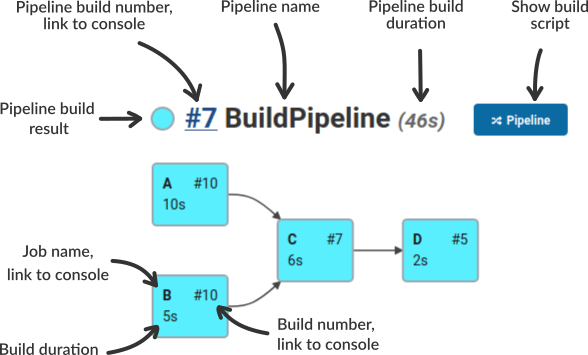
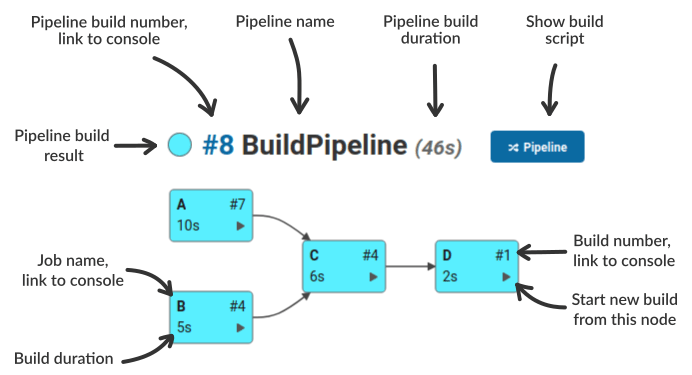
Updated documentation to match with the DepBuilder 1.1.0 update

diff --git a/src/main/webapp/js/displayBuildGraphs.js b/src/main/webapp/js/displayBuildGraphs.js
@@ -240,7 +240,7 @@ window.addEventListener('load', function () {
                 var buildStatus = node['buildStatus'];
                 var duration = node['buildDuration'];
                 var buildNumberStr = buildNumber == -1 ? "" : "" + buildNumber;
-                var htmlNode = "<div class=\"node-row\">\n                                <div class=\"projectNameContainer\"><a target=\"_blank\" class=\"hoverLink projectName\" title=" + projectName + " href=\"" + projectUri + "\">" + displayName + "</a></div>\n                                <span class=\"projectBuildSpacing\"></span>\n                                <a target=\"_blank\" class=\"link buildLink hoverLink\" href=\"" + buildUri + "\">#" + buildNumberStr + "</a>\n                            </div>\n                            <div class=\"node-row\">\n                                <p class=\"duration\">" + duration + "</p>\n                                <button data-project=\"" + projectName + "\" data-status=\"" + buildStatus + "\"\n                                    class=\"iconButton\">" + createIcon(buildStatus) + "\n                                </button>\n                            </div>\n                            ";
+                var htmlNode = "<div class=\"node-row\">\n                                <div class=\"projectNameContainer\"><a target=\"_blank\" class=\"hoverLink projectName\" title=" + projectName + " href=\"" + projectUri + "\">" + displayName + "</a></div>\n                                <span class=\"projectBuildSpacing\"></span>\n                                <a target=\"_blank\" class=\"link buildLink hoverLink\" href=\"" + buildUri + "\">#" + buildNumberStr + "</a>\n                            </div>\n                            <div class=\"node-row\">\n                                <p class=\"duration\">" + duration + "</p>\n                                <span class=\"projectBuildSpacing\"></span>\n                                <button data-project=\"" + projectName + "\" data-status=\"" + buildStatus + "\"\n                                    class=\"iconButton\">" + createIcon(buildStatus) + "\n                                </button>\n                            </div>\n                            ";
                 var paddingSide = 7;
                 var paddingTop = 5;
                 var radius = 4;

diff --git a/src/main/webapp/displayBuildGraphs.ts b/src/main/webapp/displayBuildGraphs.ts
@@ -473,6 +473,7 @@ class Graph {
                             </div>
                             <div class="node-row">
                                 <p class="duration">${duration}</p>
+                                <span class="projectBuildSpacing"></span>
                                 <button data-project="${projectName}" data-status="${buildStatus}"
                                     class="iconButton">${createIcon(buildStatus)}
                                 </button>

diff --git a/src/main/java/eu/royalsloth/depbuilder/jenkins/DslBuild.java b/src/main/java/eu/royalsloth/depbuilder/jenkins/DslBuild.java
@@ -195,7 +195,7 @@ public class DslBuild extends Build<DslProject, DslBuild> {
 
         // seconds to wait before starting the build
         int quietPeriod = 0;
-        CauseAction cause = ParameterizedJobMixIn.getBuildCause(this.getProject(), req);
+        CauseAction cause = new CauseAction(new Cause.UserIdCause());
         PartialBuildAction action = new PartialBuildAction(Arrays.asList(job));
         this.getProject().scheduleBuild2(quietPeriod, cause, action);
     }

diff --git a/docs/conf.py b/docs/conf.py
@@ -24,7 +24,7 @@ copyright = '2021, RoyalSloth'
 author = 'RoyalSloth'
 
 # The short X.Y version
-version = '1.0.0'
+version = '1.1.0'
 # The full version, including alpha/beta/rc tags
 # release = '1.0.0'
 html_title = 'DepBuilder Documentation'

diff --git a/docs/docs/001_features.rst b/docs/docs/001_features.rst
@@ -250,6 +250,12 @@ in the pipeline.
      - Default
      - Description
 
+   * - name
+     -
+     - Allows you to override the default job name that is displayed in the build
+       graph. The Jenkins job names has to be unique and could therefore become quite long,
+       while the name fields do not have to be unique.
+
    * - agent
      - [any]
      - Defines the Jenkins build runner on which the build should be executed on.
@@ -316,6 +322,9 @@ in the pipeline.
 
    // override the default and _ALL build settings
    backendBuild {
+      // the backendBuild job will be displayed in the build graph as MyBackendBuild
+      name: "MyBackendBuild"
+
       // any build agent with free executors will be able to build this job
       agent: [any]
 
@@ -420,6 +429,7 @@ Examples
    backendBuild {
       // overrides settings from _ALL settings
       // overrides the default weight factor
+      name: "MyBackend"
       agent: [windows_runner]
       maxDuration: 00:20
       weight: 3;
@@ -441,7 +451,8 @@ Examples
       The following is true for our build:
       -------------------------------------
 
-      1. backendBuild will be built on windows_runner
+      1. backendBuild will be built on windows_runner and will be displayed
+         as MyBackend in the build graph.
 
       2. If either backendBuild or frontendBuild fails, the build will
          fail and the integrationTests will never run

diff --git a/docs/docs/007_changelog.rst b/docs/docs/007_changelog.rst
@@ -5,6 +5,18 @@ Changelog
 
 |
 
+Changelog 1.1.0
+-------------------------
+*2021-03-14*
+
+- DSL: added a name field into the job settings block, which allows you to override
+  the default job name. If you are using a folder plugin the job names could be
+  extremely long and this allows you to make their names shorter and memorable.
+
+- UI: the user can now build just a small part of the build graph by clicking on the play
+  icon in the graph node.
+
+
 Changelog 1.0.6
 -------------------------
 *2021-02-10*
